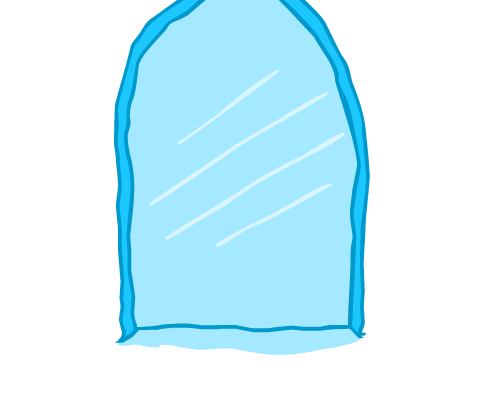
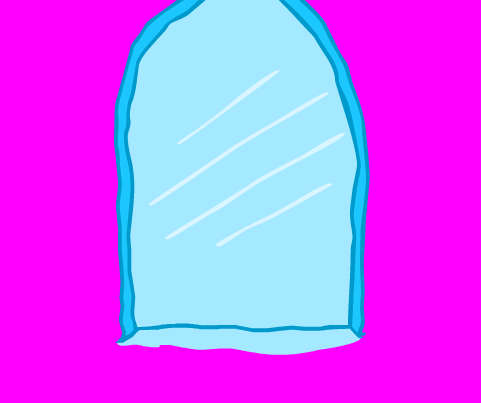
Started conversion to scalable screen (ticket 26)
The map and battle engine class have not been converted yet, so if
running at a smaller resolution, it will cause problems with them.

diff --git a/MAFH2/Dungeon.py b/MAFH2/Dungeon.py
@@ -84,7 +84,13 @@ class Dungeon(GameEngineElement):
         LVL_PATH = ENV_PATH + "pyramid/"
 
         for img_key in ['Room','F','L']:
-            self.__images[img_key] = pygame.image.load(LVL_PATH+img_key+".png")
+            img = pygame.image.load(LVL_PATH+img_key+".png").convert()
+            img.set_colorkey(pygame.Color(255,0,255))
+            width,height = img.get_size()
+
+            img = pygame.transform.scale(img, (self.game_engine.art_scale(width, 1200, True), self.game_engine.art_scale(height, 900, False)))
+
+            self.__images[img_key] = img
 
     def get_current_room(self):
         profile = self.game_engine.get_object('profile')
@@ -270,7 +276,7 @@ class Dungeon(GameEngineElement):
         current_room = self.rooms[profile.position]
 
         # Draw Room Background
-        screen.blit(self.__images['Room'],(0,0,1200,700))
+        screen.blit(self.__images['Room'],(0,0))
 
         # Draw Room Doors
         left, front, right = self.normalize_dir()
@@ -278,10 +284,10 @@ class Dungeon(GameEngineElement):
             screen.blit(self.__images['L'],(0,0))
 
         if current_room.get_door( front ) != '0':
-            screen.blit(self.__images['F'],(360,0))
+            screen.blit(self.__images['F'],( self.game_engine.art_scale(360, 1200, True),0))
 
         if current_room.get_door( right ) != '0':
-            screen.blit(pygame.transform.flip(self.__images['L'], True, False),(990,0))
+            screen.blit(pygame.transform.flip(self.__images['L'], True, False),(self.game_engine.art_scale(990, 1200, True),0))
 
         # Draw Items
         img_list = []
@@ -298,14 +304,17 @@ class Dungeon(GameEngineElement):
                 path = get_item( item_key[0] ).path
 
             if not self.__images.has_key( path ):
-                self.__images[path] = pygame.image.load(ITEM_PATH + path)
+                img = pygame.image.load(ITEM_PATH + path).convert()
+                width,height = img.get_size()
+                img = pygame.transform.scale(img, (self.game_engine.art_scale(width, 1200, True), self.game_engine.art_scale(height, 900, False)))
+                self.__images[path] = img
 
             img_list.append( self.__images[path] )
 
-        screen.blit(img_list[0],(270,330,50,50))
-        screen.blit(img_list[1],(100,600,50,50))
-        screen.blit(img_list[2],(1100,600,50,50))
-        screen.blit(img_list[3],(900,330,50,50))
+        screen.blit(img_list[0],(self.game_engine.art_scale(270, 1200, True),self.game_engine.art_scale(330, 900, False)))
+        screen.blit(img_list[1],(self.game_engine.art_scale(100, 1200, True),self.game_engine.art_scale(600, 900, False)))
+        screen.blit(img_list[2],(self.game_engine.art_scale(1100, 1200, True),self.game_engine.art_scale(600, 900, False)))
+        screen.blit(img_list[3],(self.game_engine.art_scale(900, 1200, True),self.game_engine.art_scale(330, 900, False)))
 
         #Amulet Search Function
         if hasattr(self, 'pickup_time'):
@@ -314,6 +323,6 @@ class Dungeon(GameEngineElement):
             if color_a > 255:
                 color_a = 255
                 self.game_engine.stop_event_timer(self.search_timer_handler)
-            surf1 = pygame.Surface((1200,700), pygame.SRCALPHA)
-            pygame.draw.rect(surf1, (255, 255, 255, color_a), (0, 0, 1200, 700))
+            surf1 = pygame.Surface((self.game_engine.width,self.game_engine.height), pygame.SRCALPHA)
+            pygame.draw.rect(surf1, (255, 255, 255, color_a), (0, 0, self.game_engine.width, self.game_engine.height))
             screen.blit( surf1, (0, 0) )

diff --git a/MAFH2/ezmenu.py b/MAFH2/ezmenu.py
@@ -19,16 +19,20 @@ class EzMenu:
         self.options = options
         self.x = 0
         self.y = 0
-        self.font = pygame.font.Font(None, 32)
+        self.hx = 0
+        self.hy = 0
+        self.centerx = 0
+        self.centery = 0
+        self.font = pygame.font.Font(None, 18)
         self.option = 0
         self.width = 1
         self.color = [0, 0, 0]
         self.hcolor = [255, 0, 0]
         self.height = len(self.options)*self.font.get_height()
+
         for o in self.options:
-            text = o[0]
-            ren = self.font.render(text, 1, (0, 0, 0))
-            if ren.get_width() > self.width:
+            ren = self.font.render( o[0], 1, self.color)
+            if self.width < ren.get_width():
                 self.width = ren.get_width()
 
     def draw(self, surface):
@@ -42,9 +46,8 @@ class EzMenu:
             else:
                 clr = self.color
             text = o[0]
-            ren = self.font.render(text, 1, clr)
-            if ren.get_width() > self.width:
-                self.width = ren.get_width()
+            ren = self.font.render(text, True, clr)
+
             surface.blit(ren, (self.x, self.y + i*self.font.get_height()))
             i+=1
 
@@ -53,12 +56,11 @@ class EzMenu:
         ren = self.font.render( help_txt, 1, self.color )
         self.font.set_italic( False )
 
-        surf1 = pygame.Surface((1050,self.font.get_height()+20), pygame.SRCALPHA)
+        #surf1 = pygame.Surface((self.width+20,self.font.get_height()+20), pygame.SRCALPHA)
+        #pygame.draw.rect(surf1, (255, 255, 255, 70), (0, 0, self.width + 20, self.font.get_height()))
 
-        pygame.draw.rect(surf1, (255, 255, 255, 70), (0, 0, 1050, self.font.get_height()+20))
-
-        surface.blit( surf1, (50, 690) )
-        surface.blit( ren, (55, 700) )
+        #surface.blit( surf1, (self.hx, self.hy) )
+        surface.blit( ren, (self.hx+5, self.hy) )
 
     def update(self, event):
         """Update the menu and get input for the menu."""
@@ -102,3 +104,9 @@ class EzMenu:
         """Center the center of the menu at x,y"""
         self.x = x-(self.width/2)
         self.y = y-(self.height/2)
+        self.centerx = x
+        self.centery = y
+
+    def help_text_at(self, x, y):
+        self.hx = x
+        self.hy = y

diff --git a/MAFH2/MafhGameMenu.py b/MAFH2/MafhGameMenu.py
@@ -6,7 +6,8 @@ class GameMenuHolder( GameEngineElement ):
         GameEngineElement.__init__(self, has_draw=True, has_event=False)
         self.menu = None
         self.callback = callback
-        self.background = pygame.image.load(background)
+        bg = pygame.image.load(background).convert()
+        self.background = pygame.transform.scale(bg, (width, height))
         self.width = width
         self.height = height
 
@@ -16,7 +17,7 @@ class GameMenuHolder( GameEngineElement ):
 
     def draw(self,screen,time_delta):
         if self.background:
-            screen.blit(self.background,(0,0,self.width,self.height))
+            screen.blit(self.background,(0,0))
         else:
             screen.fill((0, 0, 255))
 
@@ -98,14 +99,15 @@ class GameMenuHolder( GameEngineElement ):
             print "Invalid Menu", id
             return
 
-        self.menu = GameMenu(menu_options)
+        self.menu = GameMenu(menu_options, self.width, self.height)
 
 class GameMenu(GameEngineElement):
-    def __init__(self, game_menu, center_x=800, center_y=400):
+    def __init__(self, game_menu, width=800, height=400):
         GameEngineElement.__init__(self, has_draw=True, has_event=True)
         self.menu = ezmenu.EzMenu(game_menu)
-        self.menu.center_at(center_x, center_y)
-        self.menu.set_font(pygame.font.SysFont("Arial", 32))
+        self.menu.center_at(width - (width/3), height/2)
+        self.menu.help_text_at( 0, height-(height/10))
+        self.menu.set_font(pygame.font.SysFont("Arial", 20))
         self.menu.set_highlight_color((0, 255, 0))
         self.menu.set_normal_color((255, 255, 255))
         self.add_to_engine()

diff --git a/MAFH2/Profile.py b/MAFH2/Profile.py
@@ -67,7 +67,8 @@ class Profile(GameEngineElement):
         self.inventory.append(item)
 
     def add_to_engine(self):
-        self.background_img = pygame.image.load(MENU_PATH+"mafh_splash.gif")
+        bg = pygame.image.load(MENU_PATH+"mafh_splash.gif").convert()
+        self.background_img = pygame.transform.scale(bg, (self.game_engine.width, self.game_engine.height))
         super( Profile, self).add_to_engine()
 
     def remove_from_engine(self):
@@ -94,12 +95,18 @@ class Profile(GameEngineElement):
         """
         Draws user input for name to the screen
         """
-        font = pygame.font.Font(None, 32)
+        width = self.game_engine.width
+        height = self.game_engine.height
+
+        draw_width = width/4
+        draw_height = height/4
+
+        font = pygame.font.Font(None, 16)
         text=font.render(self.name,True,(0,0,0))
-        textRect=(400,400,400,400)
-        screen.blit(self.background_img,(0,0,1200,900))
-        screen.fill((150,150,255),(250,250,600,400))
-        screen.blit(font.render(_("Enter name:"),True,(0,0,0)),(300,300,20,20))
-        screen.blit(font.render(_("Return to continue"),True,(0,0,0)),(500,500,20,20))
+        textRect=(draw_width+60,draw_height+60,text.get_width(),text.get_height())
+        screen.blit(self.background_img,(0,0,width,height))
+        screen.fill((150,150,255),(draw_width,draw_height,2*draw_width,2*draw_height))
+        screen.blit(font.render(_("Enter name:"),True,(0,0,0)),(draw_width,draw_height))
+        screen.blit(font.render(_("Return to continue"),True,(0,0,0)),(draw_width+20,draw_height+20,20,20))
         screen.blit(text, textRect)
 

diff --git a/MAFH2/MafhGameManager.py b/MAFH2/MafhGameManager.py
@@ -10,7 +10,22 @@ class MafhGameManager(GameEngineElement):
         GameEngineElement.__init__(self, has_draw=False, has_event=True)
         self.add_to_engine()
 
-        self.game_engine.add_object('mesg', TermBox(200,700,1000,200,5) )
+        game_size_ratio_x = self.game_engine.width/1200.0
+        game_size_ratio_y = self.game_engine.height/900.0
+
+        term_width_offset = game_size_ratio_x * 200
+        term_height = game_size_ratio_y * 200
+        term_height_offset = game_size_ratio_y * 700
+        term_width = game_size_ratio_x * 1000
+
+        """
+        term_width_offset = self.game_engine.width/4
+        term_height = self.game_engine.height/6
+        term_height_offset = self.game_engine.height - term_height
+        term_width = self.game_engine.width - term_width_offset
+        """
+
+        self.game_engine.add_object('mesg', TermBox(term_width_offset, term_height_offset,term_width,term_height,5) )
         self.game_engine.get_object('mesg').add_line("Welcome to Fortune Hunter")
 
         self.game_engine.add_object('dungeon', Dungeon( self.game_engine.get_object('profile').dungeon_id))

diff --git a/MAFH2/MafhActivity.py b/MAFH2/MafhActivity.py
@@ -8,13 +8,13 @@ from Comic import Comic
 from Profile import Profile
 from MafhGameManager import MafhGameManager
 
-ge = GameEngine()
+ge = GameEngine(width=1200, height=900)
 
 def start_game():
     ge.add_object('manager', MafhGameManager() )
 
 def menu_screen():
-    ge.add_object('menu', GameMenuHolder( menu_called, MENU_PATH + "mafh_splash.gif"))
+    ge.add_object('menu', GameMenuHolder( menu_called, MENU_PATH + "mafh_splash.gif", width=ge.width, height=ge.height))
     ge.get_object('menu').show_menu('title')
 
 def menu_called(id, menu):

diff --git a/MAFH2/fortuneengine/GameEngine.py b/MAFH2/fortuneengine/GameEngine.py
@@ -565,3 +565,10 @@ class GameEngine(object):
             attribute_list = str(obj)
 
         return "Class: %s\n%s" % (classname, attribute_list)
+
+    def art_scale(self, original, expected, width=True):
+        if width:
+            return int(self.width / float(expected) * float(original))
+        else:
+
+            return int(self.height / float(expected) * float(original))

diff --git a/MAFH2/TermBox.py b/MAFH2/TermBox.py
@@ -9,7 +9,7 @@ class TermBox(GameEngineElement):
         self.y = y
         self.width = width
         self.height = height
-        self.font = pygame.font.Font(None, 32)
+        self.font = pygame.font.Font(None, 20)
         self.__lines = []
 
         self.add_to_engine()
